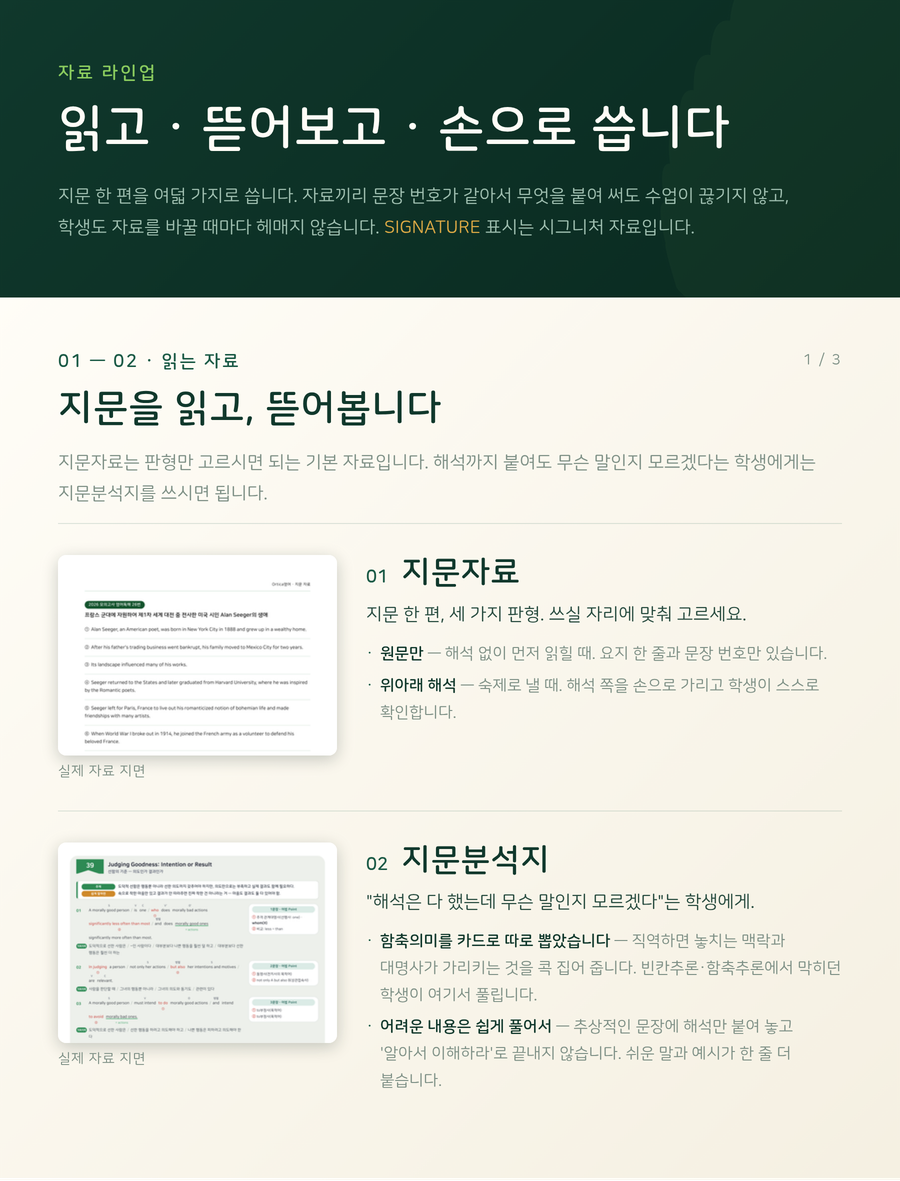
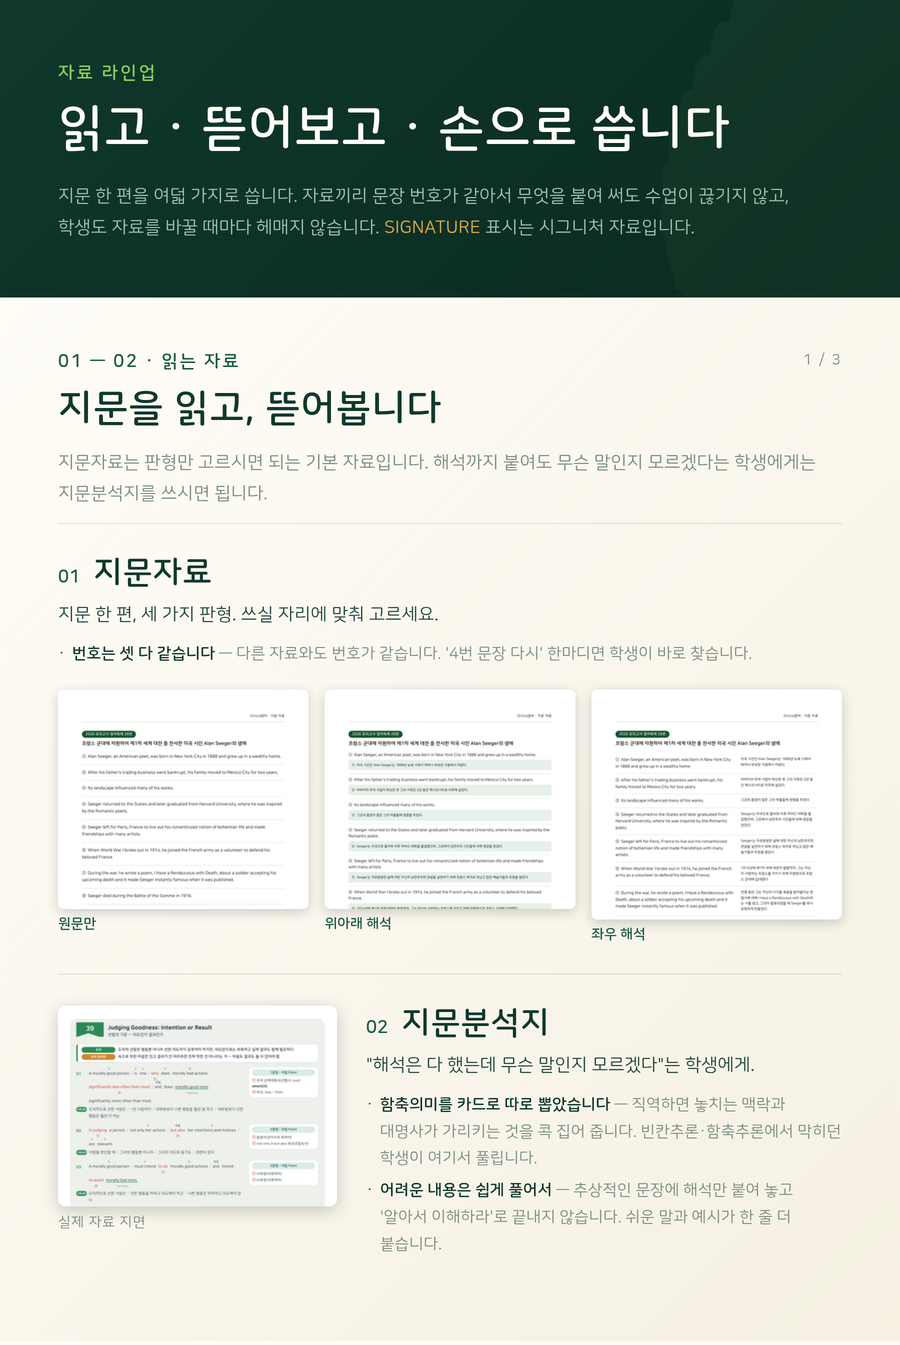
라인업에서도 지문자료 판형 셋을 나란히
'세 가지 중에 골라 쓰세요'라고 써 놓고 목록에서는 한 장만 보여 주고 있었다.
Item.thumbs 를 더해 판형이 여럿인 자료는 글 아래에 판형을 나란히 늘어놓는다
(원문만 / 위아래 해석 / 좌우 해석, 각각 라벨을 달아서).

사진 밑에 '원문만'이라 써 놓고 아래에 또 '원문만 —' 을 쓰면 같은 말이 두 번이라,
thumbs 로 보여 준 만큼의 특징 줄은 건너뛴다. 지문자료는 '번호는 셋 다 같습니다'
한 줄만 남는다.

Claude-Session: https://claude.ai/code/session_015BpsJgtaBR6xs1aCKnE4xw

Changed region(s): [[0.0, 0.0305, 1.0, 0.945]]

diff --git a/brand/build.py b/brand/build.py
@@ -362,19 +362,18 @@ def lineup_rows(items, t: dict[str, str], u: float, thumb_w: int = 320,
                      f'color:{P["green_900"]};padding:{u * .55:.0f}px {u * 1.3:.0f}px;'
                      f'font-size:{u * 1.45:.0f}px;letter-spacing:.10em">SIGNATURE</span>')
 
+        # 판형을 사진 라벨로 이미 보여 주는 자료는 그 판형 설명을 건너뛴다.
+        # 사진 밑에 '원문만'이라 써 놓고 아래에 또 '원문만 —' 을 쓰면 같은 말이 두 번이다.
+        src_pts = it.points[len(it.thumbs):] if it.thumbs else it.points
         pts = "".join(
             f'<div class="sans" style="font-size:{u * 1.8:.0f}px;color:{t["muted"]};'
             f'line-height:1.68;padding-left:{u * 1.6:.0f}px;position:relative;'
             f'word-break:keep-all;margin-top:{u * .6:.0f}px">'
             f'<span style="position:absolute;left:0;color:{t["accent"]}">·</span>'
             f'<b style="color:{t["fg"]};font-weight:700">{head}</b> — {desc}</div>'
-            for head, desc in it.points[:points_n])
+            for head, desc in src_pts[:points_n])
 
-        rows.append(f"""<div style="display:flex;gap:{u * 3.2:.0f}px;
-          padding:{u * 3.4:.0f}px 0;border-top:1px solid {t['line']}">
-          <div style="flex:0 0 {u * 31:.0f}px">{thumb}</div>
-          <div style="flex:1 1 auto">
-            <div style="display:flex;align-items:baseline;gap:{u * 1.4:.0f}px">
+        head_el = f"""<div style="display:flex;align-items:baseline;gap:{u * 1.4:.0f}px">
               <div class="wm" style="font-size:{u * 2.0:.0f}px;color:{t['accent']}">{it.no}</div>
               <div class="ko" style="font-size:{u * 3.5:.0f}px;color:{t['fg']}">{it.name}</div>
               {badge}
@@ -382,8 +381,34 @@ def lineup_rows(items, t: dict[str, str], u: float, thumb_w: int = 320,
             <div class="sans" style="margin-top:{u * 1.0:.0f}px;font-size:{u * 2.0:.0f}px;
                  color:{t['fg']};line-height:1.65;word-break:keep-all;opacity:.9">
               {it.one_line}</div>
-            <div style="margin-top:{u * 1.2:.0f}px">{pts}</div>
-          </div>
+            <div style="margin-top:{u * 1.2:.0f}px">{pts}</div>"""
+
+        if it.thumbs:
+            # 판형이 여럿인 자료. 왼쪽에 한 장만 놓으면 '골라 쓰세요'라고 써 놓고
+            # 한 가지만 보여 주는 꼴이라, 글 아래에 판형을 나란히 늘어놓는다.
+            cells = []
+            for name, label in it.thumbs:
+                f = shot_crop(name, OUT / "thumbs" / f"t-{it.key}-{Path(name).stem}.png",
+                              thumb_w, ratio=0.92)
+                img = (f'<img src="{(OUT / "thumbs" / f).as_uri()}" '
+                       f'style="width:100%;display:block;border-radius:6px;'
+                       f'box-shadow:0 3px 12px rgba(14,31,26,.20)">') if f else ""
+                cells.append(f"""<div style="flex:1 1 0">{img}
+                  <div class="sans" style="margin-top:{u * .8:.0f}px;
+                       font-size:{u * 1.6:.0f}px;color:{t['accent']};
+                       font-weight:700">{label}</div></div>""")
+            rows.append(f"""<div style="padding:{u * 3.4:.0f}px 0;
+              border-top:1px solid {t['line']}">
+              {head_el}
+              <div style="display:flex;gap:{u * 1.8:.0f}px;margin-top:{u * 2.4:.0f}px">
+                {''.join(cells)}</div>
+            </div>""")
+            continue
+
+        rows.append(f"""<div style="display:flex;gap:{u * 3.2:.0f}px;
+          padding:{u * 3.4:.0f}px 0;border-top:1px solid {t['line']}">
+          <div style="flex:0 0 {u * 31:.0f}px">{thumb}</div>
+          <div style="flex:1 1 auto">{head_el}</div>
         </div>""")
     return "".join(rows)
 

diff --git a/brand/catalog.py b/brand/catalog.py
@@ -27,6 +27,9 @@ class Item:
     sample_note: str = ""        # 예시 이미지 아래 설명
     thumb: str = ""              # 라인업 썸네일만 다른 사진을 쓸 때. 비면 sample
     # ↑ 나란히 붙인 비교 사진처럼, 작게 줄이면 뭉개지는 장이 있다
+    thumbs: list[tuple[str, str]] = field(default_factory=list)  # (파일명, 라벨)
+    # ↑ 판형이 여럿인 자료는 라인업에서도 그 판형을 나란히 놓는다. 하나만 놓으면
+    #   '세 가지 중에 고르세요'라고 써 놓고 한 가지만 보여 주는 꼴이 된다
     extra: list[tuple[str, str]] = field(default_factory=list)  # (예시 파일명, 설명) 추가 장
     figures: int = 0             # 상세페이지에 넣을 사진 수. 0이면 build.MAX_FIGURES
     # ↑ 판형이 여럿인 자료는 그 판형을 다 보여 줘야 무슨 말인지 통한다
@@ -70,6 +73,11 @@ MATERIALS: list[Item] = [
              "답지부터 보는 습관을 고치고 싶은 학생"],
         sample="passage.png",
         sample_note="원문만 — 지문 위에 요지 한 줄, 문장마다 번호.",
+        thumbs=[
+            ("passage.png", "원문만"),
+            ("one-line.png", "위아래 해석"),
+            ("one-line-2col.png", "좌우 해석"),
+        ],
         extra=[
             ("one-line.png", "위아래 해석 — 영어 문장 아래에 같은 번호의 해석."),
             ("one-line-2col.png", "좌우 해석 — 왼쪽 영어, 오른쪽 해석. 한 쪽에 한 지문."),
